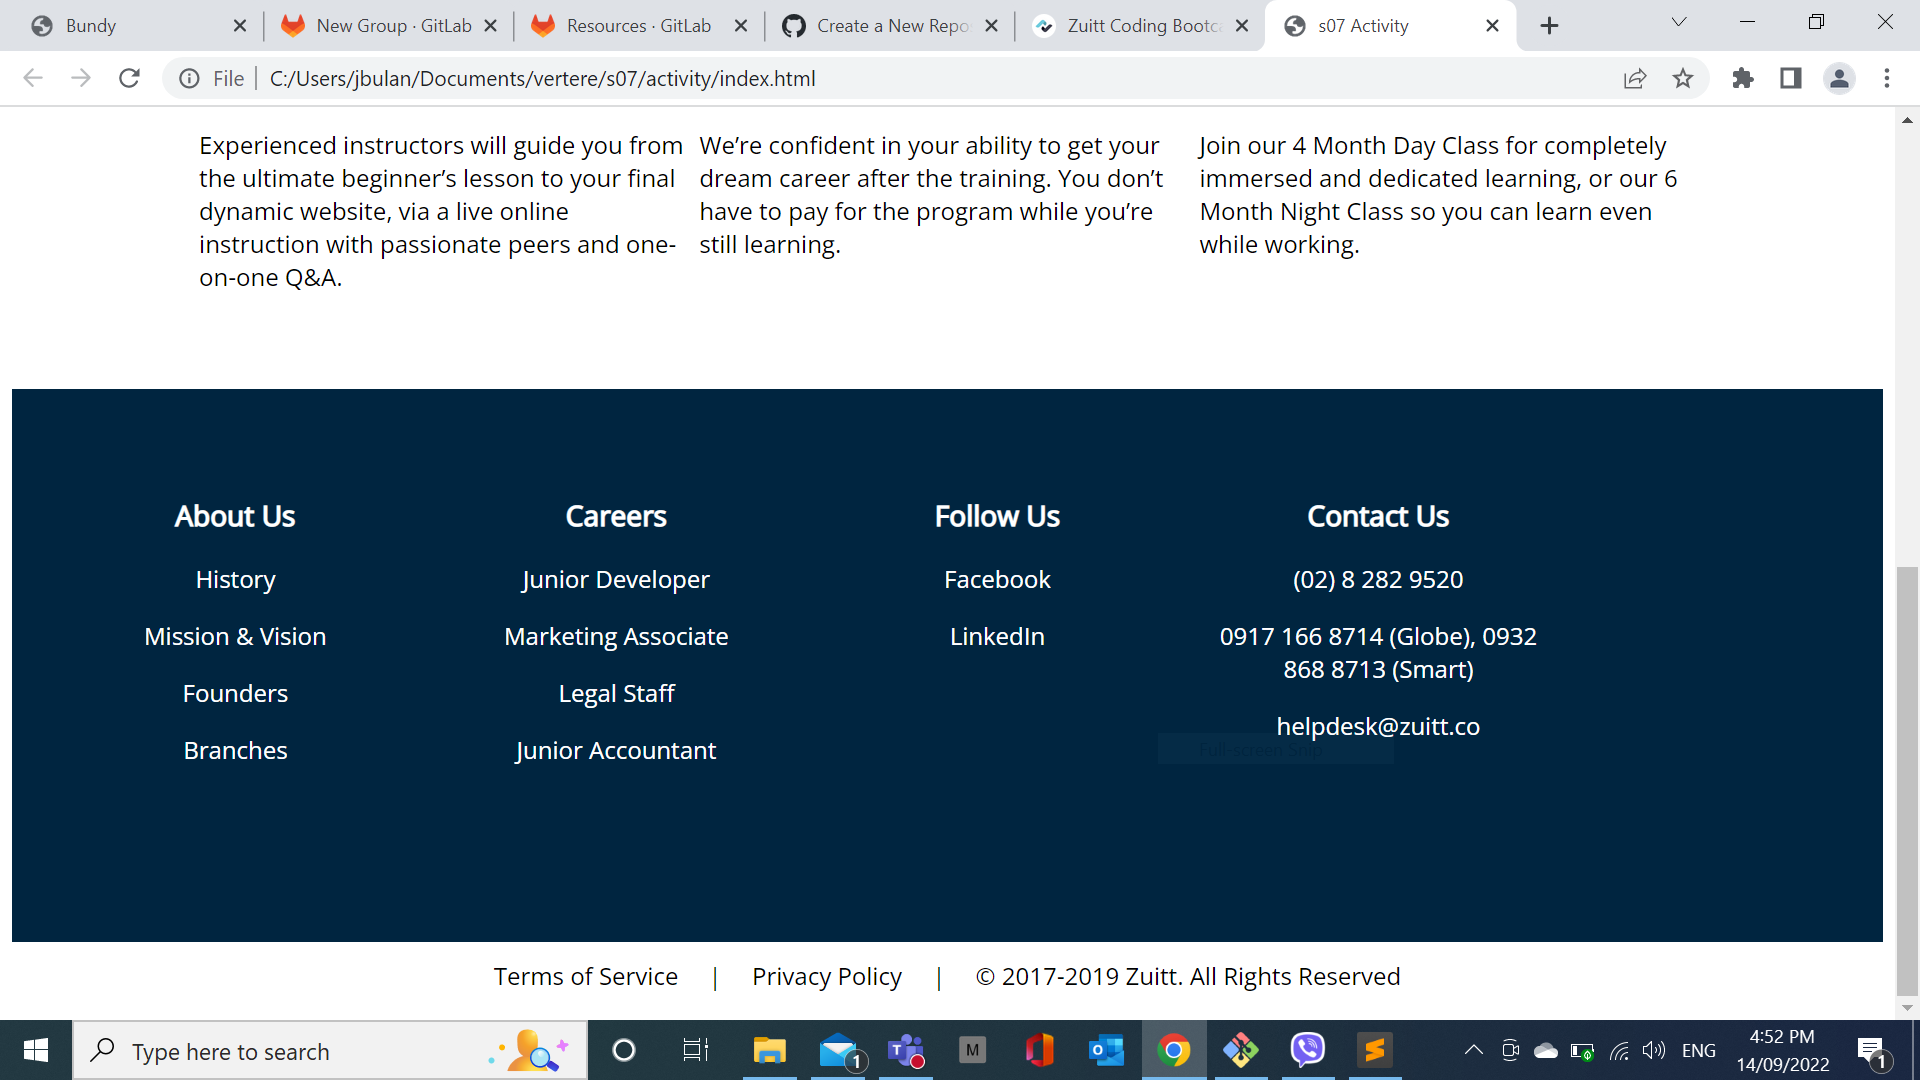
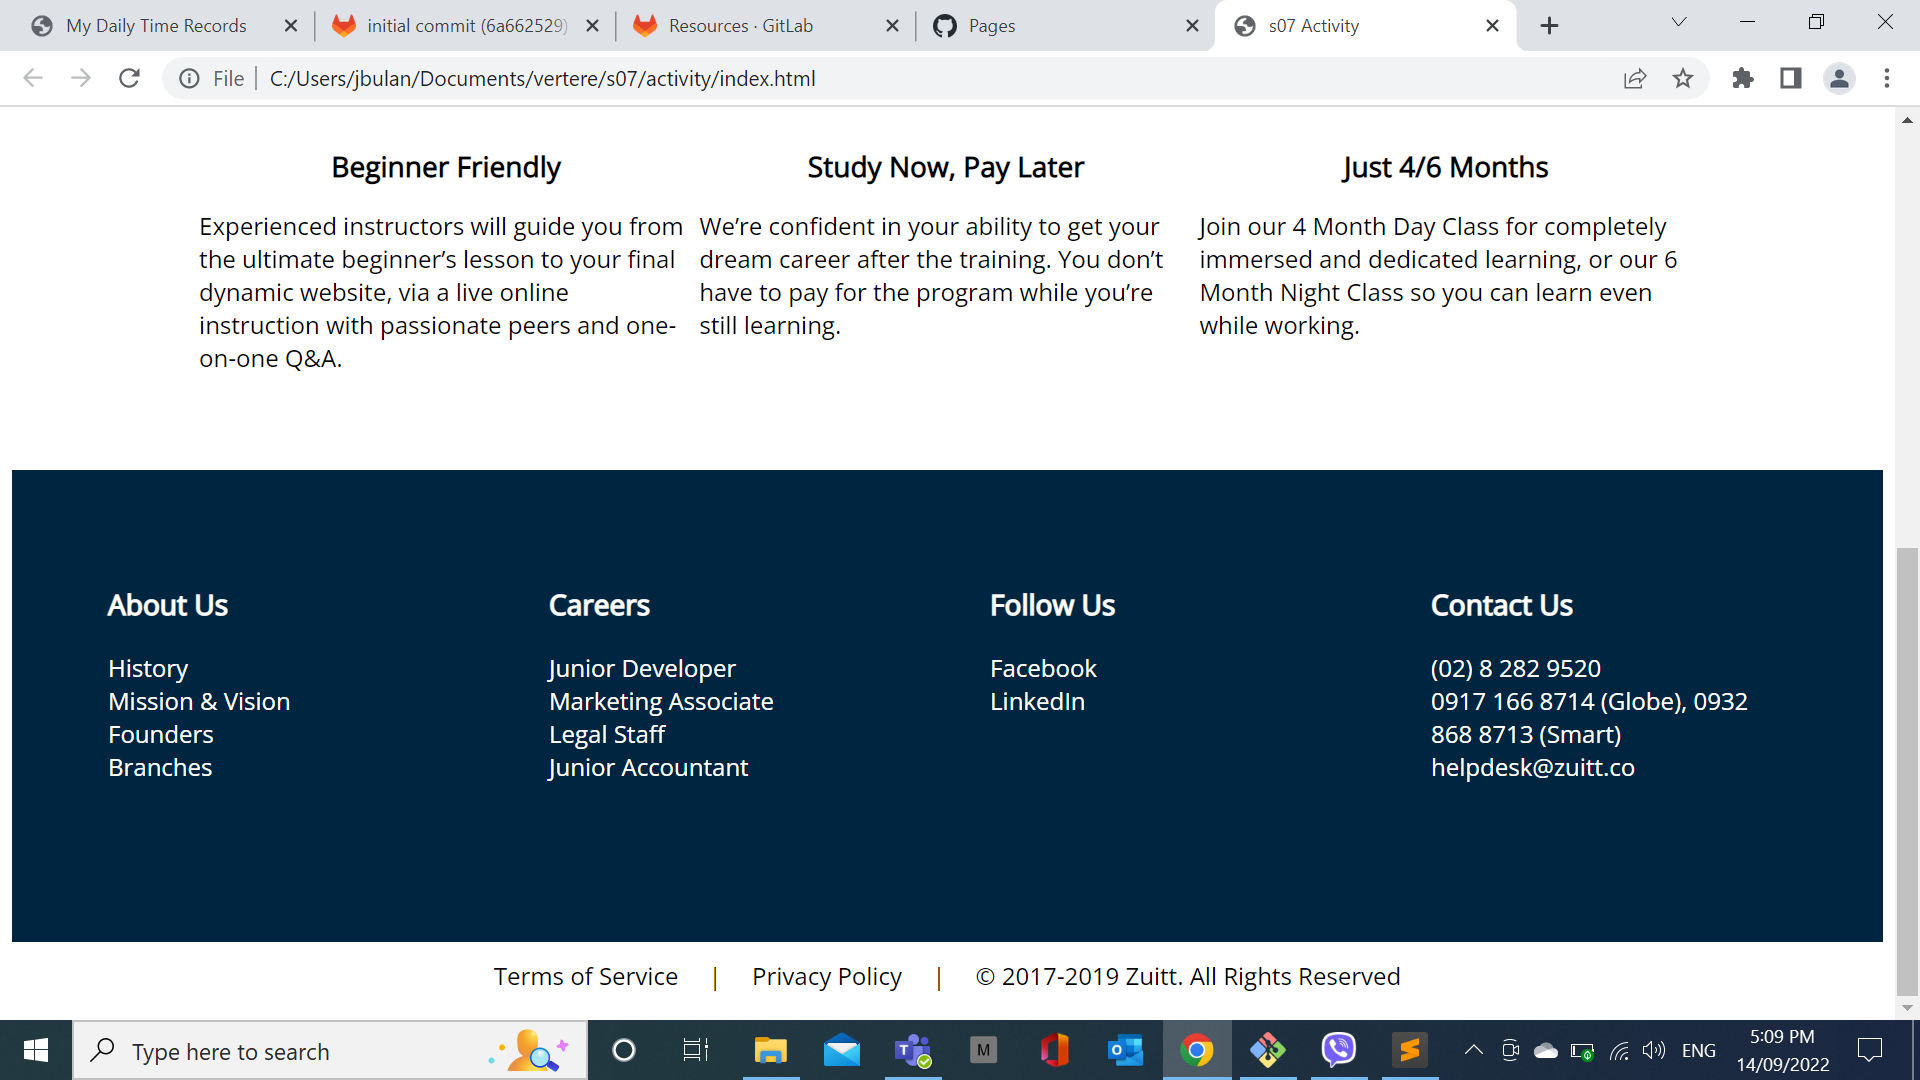
updated image

diff --git a/css/index.css b/css/index.css
@@ -67,7 +67,7 @@ nav .nav, nav .nav-logo {
 #pre-footer .card {
     display: inline-block;
 	width: 20%;
-	padding: 5px;
+	padding: 10px;
 	vertical-align: top;
 	color: white;
 	margin-left: 30px;
